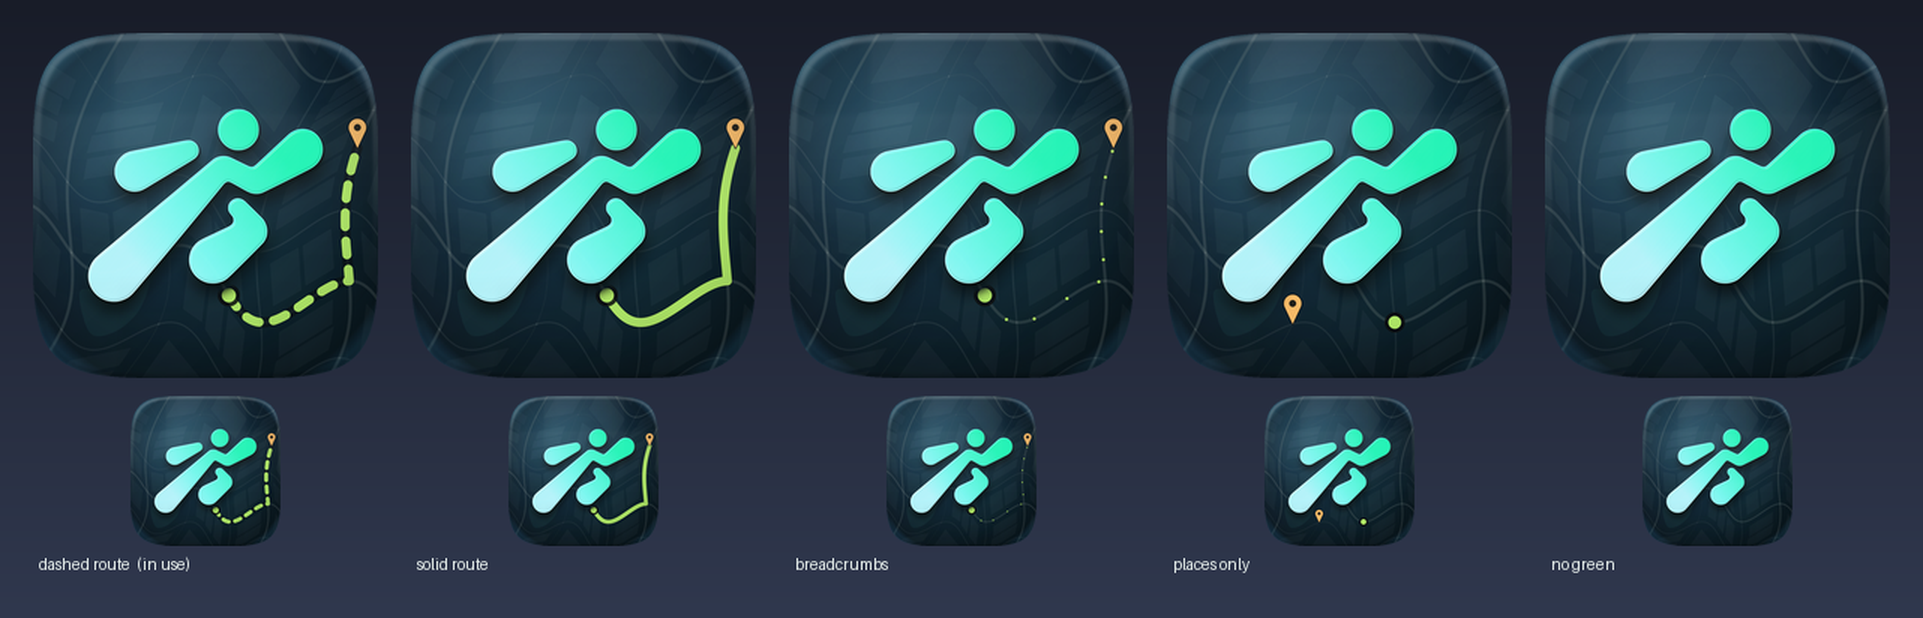
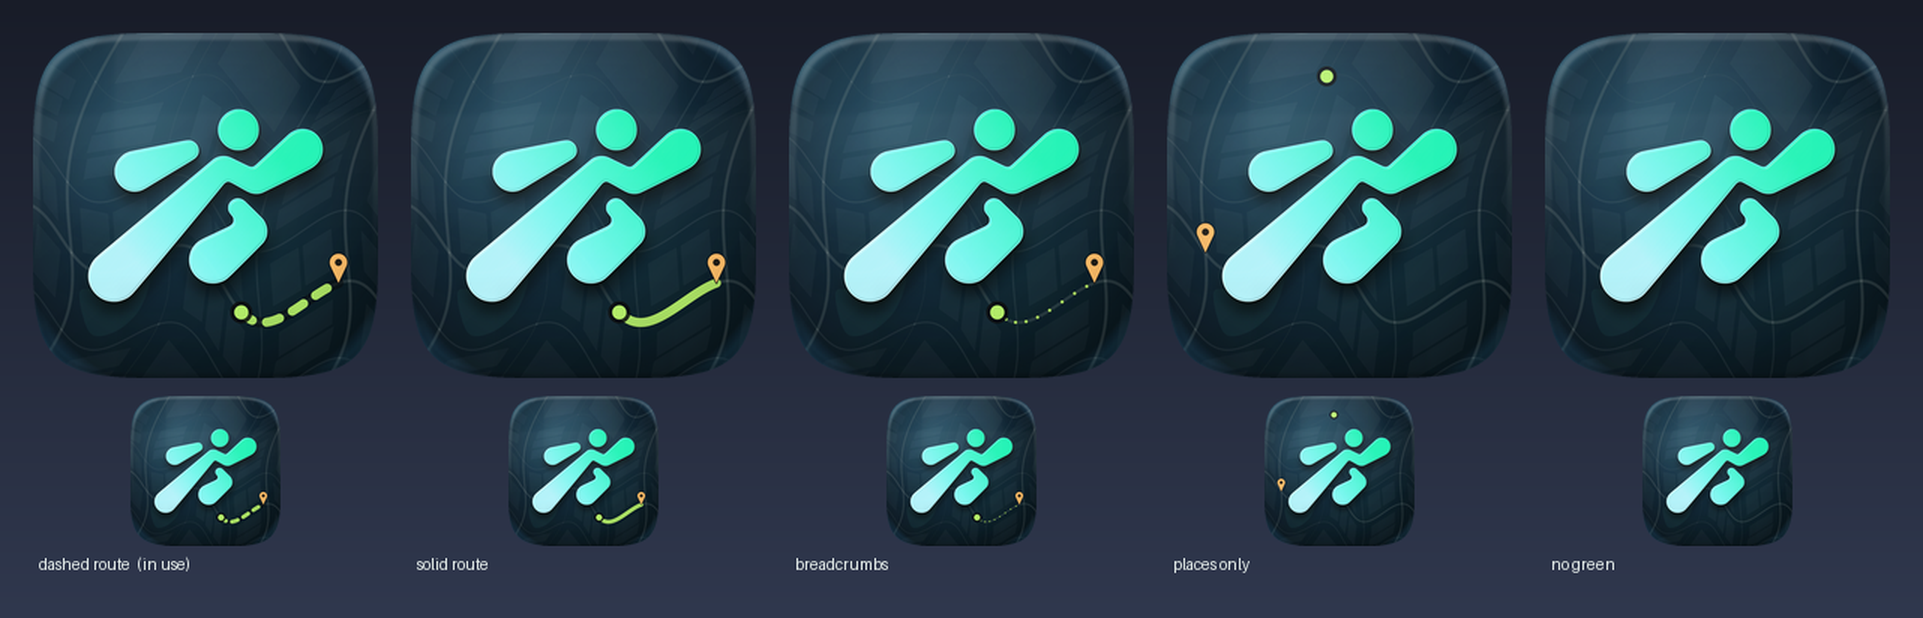
Give the route's end markers room to breathe
The pin sat close to the icon's corner and, at other seeds, close to the mark.
Two causes: the safe area was a 22px inset on the square, when iOS masks a
squircle that curves well inside that near a corner; and only the pin's tip was
tested, though a pin stands three times its head radius above its point.

Markers now get their own, stricter safe area and are tested by their whole
footprint, sliding inward along the route until they fit. The path is cut to
meet them, so the route ends at its destination instead of running past it.

Rather than hand-placing the route, sixteen candidates are generated through
different pairs of roads and the one keeping the most length after trimming
wins, constrained to below the figure's waist: the longest corridor is often
the strip across the top, and a route there reads as a banner hung above the
mark rather than ground it moves over.

The pin now sits 12% of the icon from the rounded edge and 22% from the mark,
and a test measures both.

diff --git a/Tools/IconForge/Sources/IconForgeCore/CityMap.swift b/Tools/IconForge/Sources/IconForgeCore/CityMap.swift
@@ -26,6 +26,10 @@ public struct CityPlan {
     /// most literal thing it can mean — drawn as a line with stops, never as a glow.
     public var route: [CGPoint]
     public var routeStops: [CGPoint]
+    /// Routes through other pairs of roads. Which one gets drawn depends on how much clear space
+    /// each has once the mark and the icon's rounded edge are taken into account, and that is only
+    /// known at draw time — so the choice is made there, from these.
+    public var routeCandidates: [[CGPoint]]
     public var transform: CGAffineTransform
 }
 
@@ -183,36 +187,42 @@ public enum CityMap {
             }
         }
 
-        // A short route with stops, sitting in a clear corner rather than crossing the whole icon.
-        // Long enough to read as a path, short enough not to compete with the mark.
-        //
-        // Placed by working backwards through the map's own transform: pick where it should appear
-        // in the icon, convert that to map space, and take the roads nearest to it. Guessing at row
-        // and column indices says nothing about where a rotated, oversized map actually lands.
-        let placement = CGAffineTransform(translationX: size / 2, y: size / 2)
-            .rotated(by: rotation)
-            .translatedBy(x: -span / 2, y: -span / 2)
-        // Kept outside the mark's bounding box. A bright green line running alongside the mark
-        // collapses the contrast at that edge, which is the one thing the icon cannot afford.
-        let corner = CGPoint(x: size * 0.815, y: size * 0.155).applying(placement.inverted())
+        // Routes through several pairs of roads, all generated long. Which one is drawn, and how
+        // much of it, is decided at draw time against the clear space available — hand-placing a
+        // single route means re-tuning it every time the mark or the street layout changes, and
+        // the position snaps to the nearest road anyway, so small adjustments do nothing.
         func nearest(_ values: [Double], to target: Double) -> Double {
             values.min { abs($0 - target) < abs($1 - target) } ?? target
         }
-        let routeRow = nearest(rows, to: corner.y)
-        let routeColumn = nearest(columns, to: corner.x)
+        func lRoute(row: Double, column: Double, before: Double, after: Double) -> [CGPoint] {
+            var points: [CGPoint] = []
+            var u = column - before
+            while u <= column { points.append(warp(CGPoint(x: u, y: row))); u += span * 0.006 }
+            var v = row
+            while v <= row + after { points.append(warp(CGPoint(x: column, y: v))); v += span * 0.006 }
+            return points
+        }
 
-        var route: [CGPoint] = []
-        // Short enough that both ends stay clear of the mark: an origin dot hidden under the
-        // figure is worse than no origin dot, because the route then just fades in from nowhere.
-        let approach = span * 0.215, departure = span * 0.235
-        var u = routeColumn - approach
-        while u <= routeColumn { route.append(warp(CGPoint(x: u, y: routeRow))); u += span * 0.006 }
-        var v = routeRow
-        while v <= routeRow + departure { route.append(warp(CGPoint(x: routeColumn, y: v))); v += span * 0.006 }
-        let routeStops = [route.first!, warp(CGPoint(x: routeColumn, y: routeRow)), route.last!]
+        var routeCandidates: [[CGPoint]] = []
+        for rowTarget in [0.26, 0.40, 0.56, 0.70] {
+            for columnTarget in [0.30, 0.46, 0.62, 0.76] {
+                let row = nearest(rows, to: span * rowTarget)
+                let column = nearest(columns, to: span * columnTarget)
+                routeCandidates.append(lRoute(row: row, column: column,
+                                              before: span * 0.42, after: span * 0.34))
+            }
+        }
+        let route = routeCandidates[0]
+        let routeStops = [route.first!, route[route.count / 2], route.last!]
+
+        // Centre the oversized map, rotate it, then bring it back into icon space.
+        let placement = CGAffineTransform(translationX: size / 2, y: size / 2)
+            .rotated(by: rotation)
+            .translatedBy(x: -span / 2, y: -span / 2)
 
         return CityPlan(streets: streets, blocks: blocks, openAreas: openAreas,
-                        junctions: junctions, route: route, routeStops: routeStops, transform: placement)
+                        junctions: junctions, route: route, routeStops: routeStops,
+                        routeCandidates: routeCandidates, transform: placement)
     }
 
     // MARK: Drawing
@@ -302,8 +312,14 @@ public enum CityMap {
         return path
     }
 
+    /// - Parameters:
+    ///   - clearance: where the path may show — white is allowed.
+    ///   - markerClearance: where an end marker may sit. Stricter than `clearance`: a marker is a
+    ///     solid object that needs room around it, and it has to stay inside the rounded shape iOS
+    ///     masks the icon to, not merely inside the square the file happens to be.
     public static func drawRoute(_ plan: CityPlan, in ctx: CGContext, palette: Palette,
-                                 scale: Double, ink: Ink = Ink(), clearance: CGImage? = nil) {
+                                 scale: Double, ink: Ink = Ink(), clearance: CGImage? = nil,
+                                 markerClearance: CGImage? = nil) {
         guard ink.route > 0, ink.style != .none else { return }
         let bounds = CGRect(x: 0, y: 0, width: Double(ctx.width), height: Double(ctx.height))
         let canvas = bounds.insetBy(dx: 22 * scale, dy: 22 * scale)
@@ -321,13 +337,46 @@ public enum CityMap {
         // clearance back means the route sizes itself to whatever room it has.
         let n = ctx.width
         let clear: [Double]? = clearance.map { GlassShading.gray($0, size: n) }
-        func isClear(_ iconPoint: CGPoint) -> Bool {
+        let markerRoom: [Double]? = markerClearance.map { GlassShading.gray($0, size: n) }
+
+        func sample(_ buffer: [Double]?, at iconPoint: CGPoint) -> Bool {
             guard canvas.contains(iconPoint) else { return false }
-            guard let clear else { return true }
+            guard let buffer else { return true }
             // Bitmap row 0 is the top of the image; user space has y growing upward.
             let column = Int(iconPoint.x), row = n - 1 - Int(iconPoint.y)
             guard column >= 0, column < n, row >= 0, row < n else { return false }
-            return clear[row * n + column] > 0.94
+            return buffer[row * n + column] > 0.94
+        }
+
+        func isClear(_ iconPoint: CGPoint) -> Bool { sample(clear, at: iconPoint) }
+
+        /// Every marker is tested by its whole footprint, not by the one point it sits on. A pin
+        /// stands well above its tip, so a tip with room is no guarantee the head has any.
+        func hasRoom(for footprint: [CGPoint]) -> Bool {
+            footprint.allSatisfy { sample(markerRoom, at: $0) }
+        }
+
+        func ring(_ centre: CGPoint, _ radius: Double) -> [CGPoint] {
+            [centre] + (0..<10).map { step in
+                let angle = Double(step) / 10 * 2 * .pi
+                return CGPoint(x: centre.x + cos(angle) * radius, y: centre.y + sin(angle) * radius)
+            }
+        }
+
+        func dotFootprint(_ point: CGPoint, radius: Double) -> [CGPoint] {
+            ring(point, radius * scale)
+        }
+
+        func pinFootprint(tip: CGPoint, radius: Double) -> [CGPoint] {
+            let r = radius * scale
+            return [tip] + ring(CGPoint(x: tip.x, y: tip.y + r * 2.35), r)
+        }
+
+        /// Slides a marker in from one end of the route until its footprint fits, and reports
+        /// where it stopped so the path can be cut to meet it.
+        func settle(_ points: [CGPoint], fromEnd: Bool, footprint: (CGPoint) -> [CGPoint]) -> Int? {
+            let order = fromEnd ? Array(points.indices.reversed()) : Array(points.indices)
+            return order.first { hasRoom(for: footprint(points[$0].applying(plan.transform))) }
         }
 
         func longestClearRun(_ points: [CGPoint]) -> ArraySlice<CGPoint> {
@@ -342,7 +391,36 @@ public enum CityMap {
             return points[best]
         }
 
-        let visibleRoute = Array(longestClearRun(plan.route))
+        // Pick the candidate with the most drawn length left after trimming, so the route uses
+        // whatever corridor the map and the mark actually leave open.
+        var clearRoute: [CGPoint] = []
+        var routeEndsFor: (dot: Int, pin: Int)?
+        for candidate in plan.routeCandidates {
+            let run = Array(longestClearRun(candidate))
+            guard let first = run.first, let last = run.last else { continue }
+            let startIsLower = first.applying(plan.transform).y < last.applying(plan.transform).y
+            guard let dot = settle(run, fromEnd: !startIsLower, footprint: { dotFootprint($0, radius: 33) }),
+                  let pin = settle(run, fromEnd: startIsLower, footprint: { pinFootprint(tip: $0, radius: 26) }),
+                  abs(pin - dot) > run.count / 8
+            else { continue }
+            // Below the figure's waist. The longest corridor is often the strip across the top,
+            // but a route up there reads as a banner hung above the mark rather than as ground
+            // the mark is moving over.
+            let middle = run[(dot + pin) / 2].applying(plan.transform)
+            guard middle.y < Double(ctx.height) * 0.54 else { continue }
+            if abs(pin - dot) > (routeEndsFor.map { abs($0.pin - $0.dot) } ?? 0) {
+                clearRoute = run
+                routeEndsFor = (dot, pin)
+            }
+        }
+
+        // Where the two ends settle decides where the path stops. Drawing the path to its own
+        // extent and then sliding the markers inward leaves the route running past its own
+        // destination, which is not what a route does.
+        let routeEnds = routeEndsFor
+        let visibleRoute = routeEnds.map { ends in
+            Array(clearRoute[min(ends.dot, ends.pin)...max(ends.dot, ends.pin)])
+        } ?? clearRoute
 
         // MARK: the path itself, drawn in the map's own space so it follows the streets
 
@@ -436,27 +514,28 @@ public enum CityMap {
 
         switch ink.style {
         case .line, .dashed, .trail:
-            if let first = visibleRoute.first, let last = visibleRoute.last {
-                // Whichever end is higher gets the pin: it needs headroom above its point, and it
-                // is also the end the eye travels to.
-                let start = first.applying(plan.transform), finish = last.applying(plan.transform)
-                let (dot, pin) = start.y < finish.y ? (start, finish) : (finish, start)
+            if let ends = routeEnds {
                 // Wider than the path itself, or the dot merges into the first dash and the route
                 // looks like it simply starts nowhere.
-                origin(at: dot, radius: 33)
-                if pin.y < canvas.maxY - 110 * scale {
-                    destination(at: pin, radius: 26, colour: palette.amber)
-                }
+                origin(at: clearRoute[ends.dot].applying(plan.transform), radius: 33)
+                destination(at: clearRoute[ends.pin].applying(plan.transform), radius: 26,
+                            colour: palette.amber)
             }
+
         case .points:
             let centre = CGPoint(x: bounds.midX, y: bounds.midY)
             let reach = Double(ctx.width)
-            let outer = plan.junctions.compactMap(placed).filter { p in
+            let outer = plan.junctions.map { $0.applying(plan.transform) }.filter { p in
                 let d = ((p.x - centre.x) * (p.x - centre.x) + (p.y - centre.y) * (p.y - centre.y)).squareRoot()
-                return d > reach * 0.30 && d < reach * 0.46 && p.y < canvas.maxY - 110 * scale
+                return d > reach * 0.30 && d < reach * 0.46
             }
-            if let first = outer.first { destination(at: first, radius: 26, colour: palette.amber) }
-            if outer.count > 1 { origin(at: outer[outer.count / 2], radius: 30) }
+            if let pin = outer.first(where: { hasRoom(for: pinFootprint(tip: $0, radius: 26)) }) {
+                destination(at: pin, radius: 26, colour: palette.amber)
+            }
+            if let dot = outer.last(where: { hasRoom(for: dotFootprint($0, radius: 30)) }) {
+                origin(at: dot, radius: 30)
+            }
+
         case .none:
             break
         }

diff --git a/Tools/IconForge/Tests/IconForgeTests/GlassShadingTests.swift b/Tools/IconForge/Tests/IconForgeTests/GlassShadingTests.swift
@@ -142,15 +142,65 @@ struct RouteStyleTests {
         }
     }
 
-    @Test func theRouteIsShortEnoughToStayOutOfTheMarksWay() {
-        // A route that crosses the whole icon reads as a crack through it rather than as a path.
+    @Test func candidatesAreGeneratedLongEnoughToTrim() {
+        // The drawn length is whatever the clear space allows, so the raw candidates have to be
+        // longer than anything that will actually be used — there has to be slack to trim.
         let plan = plan()
-        let points = plan.route.map { $0.applying(plan.transform) }
-        let xs = points.map(\.x), ys = points.map(\.y)
-        let width = xs.max()! - xs.min()!, height = ys.max()! - ys.min()!
-        #expect(width < 1024 * 0.55)
-        #expect(height < 1024 * 0.55)
-        #expect(plan.routeStops.count == 3)
+        #expect(plan.routeCandidates.count >= 12)
+        for candidate in plan.routeCandidates {
+            #expect(candidate.count > 100)
+        }
+    }
+
+    @Test func theEndMarkersKeepClearOfTheEdgeAndTheMark() throws {
+        // A pin crowded into the corner or leaning on the figure is the thing that keeps going
+        // wrong by eye, so it is measured: distance from the pin to the rounded edge iOS masks
+        // the icon to, and to the mark itself.
+        let n = 512
+        let root = URL(fileURLWithPath: #filePath)
+            .deletingLastPathComponent().deletingLastPathComponent().deletingLastPathComponent()
+            .deletingLastPathComponent().deletingLastPathComponent()
+        let logo = try SVGParser.parse(contentsOf: root.appendingPathComponent("PathOS_Logo.svg"))
+        let palette = try Palette(contentsOf: root.appendingPathComponent("Shared/PathOSPalette.swift"))
+
+        var settings = IconRenderer.Settings()
+        settings.size = n
+        let icon = IconRenderer.render(logo: logo, palette: palette, settings: settings)
+        let mark = Raster.mask(path: IconRenderer.place(logo, in: Double(n), scale: settings.logoScale),
+                               size: n, fillRule: logo.fillRule)
+
+        let rect = CGRect(x: 0, y: 0, width: n, height: n)
+        let iconCtx = Raster.context(size: n); iconCtx.draw(icon, in: rect)
+        let markCtx = Raster.grayContext(size: n); markCtx.draw(mark, in: rect)
+        let pixels = iconCtx.data!.assumingMemoryBound(to: UInt8.self)
+        let alpha = markCtx.data!.assumingMemoryBound(to: UInt8.self)
+
+        var amberX = 0.0, amberY = 0.0, amberCount = 0.0
+        var markPoints: [(Double, Double)] = []
+        for y in 0..<n {
+            for x in 0..<n {
+                let i = y * n + x
+                let r = Int(pixels[i * 4]), g = Int(pixels[i * 4 + 1]), b = Int(pixels[i * 4 + 2])
+                if r > 200, g > 140, g < 215, b < 140 {
+                    amberX += Double(x); amberY += Double(y); amberCount += 1
+                }
+                if alpha[i] > 200, (x + y) % 5 == 0 { markPoints.append((Double(x), Double(y))) }
+            }
+        }
+        #expect(amberCount > 150)
+        let pin = (x: amberX / amberCount, y: amberY / amberCount)
+
+        // How far short of the icon's rounded outline the pin sits, along the ray from the centre.
+        let half = Double(n) / 2
+        let dx = (pin.x - half) / half, dy = (pin.y - half) / half
+        let reach = pow(pow(abs(dx), Squircle.exponent) + pow(abs(dy), Squircle.exponent),
+                        1 / Squircle.exponent)
+        let radial = (pow(pin.x - half, 2) + pow(pin.y - half, 2)).squareRoot()
+        let toEdge = reach > 0 ? radial / reach - radial : half
+        #expect(toEdge > Double(n) * 0.07)
+
+        let toMark = markPoints.map { (pow($0.0 - pin.x, 2) + pow($0.1 - pin.y, 2)).squareRoot() }.min() ?? .infinity
+        #expect(toMark > Double(n) * 0.13)
     }
 
     @Test func onlyTheFarStopIsAmber() {

diff --git a/Tools/IconForge/Sources/IconForgeCore/IconRenderer.swift b/Tools/IconForge/Sources/IconForgeCore/IconRenderer.swift
@@ -72,7 +72,23 @@ public struct IconRenderer {
         let clearOfMark = Raster.inverted(Raster.combine(nearMark, nearMark) { value, _ in
             UInt8(min(255, Int(value) * 6))
         })
-        CityMap.drawRoute(plan, in: ctx, palette: palette, scale: k, ink: ink, clearance: clearOfMark)
+        // A marker is a solid object and needs more room than a dashed line does: set well inside
+        // the rounded shape iOS masks the icon to — not the square edge of the file — and further
+        // from the mark, so it never looks crowded against either.
+        let insideIcon = Raster.mask(size: size) { inner in
+            inner.addPath(Squircle.path(size: s, inset: 82 * k))
+            inner.fillPath()
+        }
+        let farFromMark = Raster.blurred(logoMask, radius: 60 * k)
+        let markerRoom = Raster.combine(
+            insideIcon,
+            Raster.inverted(Raster.combine(farFromMark, farFromMark) { value, _ in
+                UInt8(min(255, Int(value) * 6))
+            })
+        ) { inside, away in min(inside, away) }
+
+        CityMap.drawRoute(plan, in: ctx, palette: palette, scale: k, ink: ink,
+                          clearance: clearOfMark, markerClearance: markerRoom)
 
         // 4 — the route through the city. The soft green pools that used to sit here are gone:
         // a blur of colour reads as a smudge at icon size, where a line with stops on it reads as

diff --git a/SETUP.md b/SETUP.md
@@ -142,8 +142,18 @@ Green in the map is a route, not a glow: `CityMap.drawRoute`. Its ends follow th
 map app uses — a solid dot inside a dark collar where you start, and an Amber pin whose point sits
 on the destination. The pin's sides are the real tangents from its tip to its head, and the markers
 are drawn in icon space rather than map space so the pin stays upright instead of leaning with the
-map's rotation. The route trims itself to whatever stretch is both on the icon and clear of the mark, and the
-markers hang off the trimmed ends — otherwise its length has to be hand-tuned until the ends happen
+map's rotation. The route places itself. `CityMap.plan` generates sixteen candidate routes through different pairs
+of roads, all deliberately longer than anything that will be used, and `drawRoute` picks whichever
+keeps the most length once the mark and the icon's rounded edge are accounted for — subject to
+sitting below the figure's waist, since the longest corridor is often the strip across the top and a
+route up there reads as a banner hung above the mark. Hand-placing one route means re-tuning it
+whenever the mark or the street layout changes, and the position snaps to the nearest road anyway,
+so small adjustments do nothing.
+
+Each end marker is tested by its whole footprint against a stricter safe area than the path gets: a
+marker is a solid object, it needs room, and it has to stay inside the rounded shape iOS masks to
+rather than the square edge of the file. A marker slides inward along the route until it fits, and
+the path is then cut to meet it — otherwise the route runs past its own destination — otherwise its length has to be hand-tuned until the ends happen
 to miss the figure, and any later change to the mark quietly leaves a marker half-dissolved by the
 clearance mask. `--route-style` picks how the path between them is drawn — `dashed` (the default), `line`, `trail`, `points` or `none` — and the far stop is Amber,
 the one point on the map worth a glance. It's clipped away from the mark (`clearance`), both because
